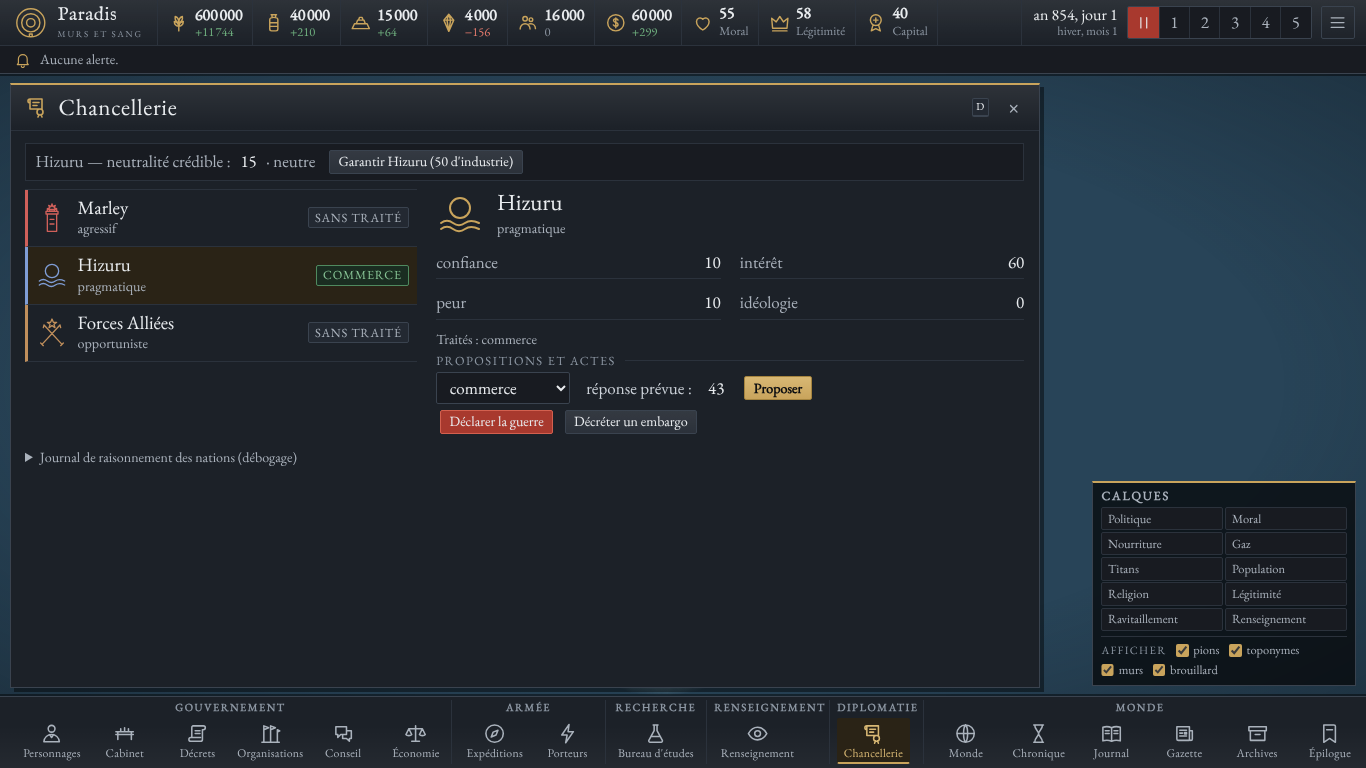
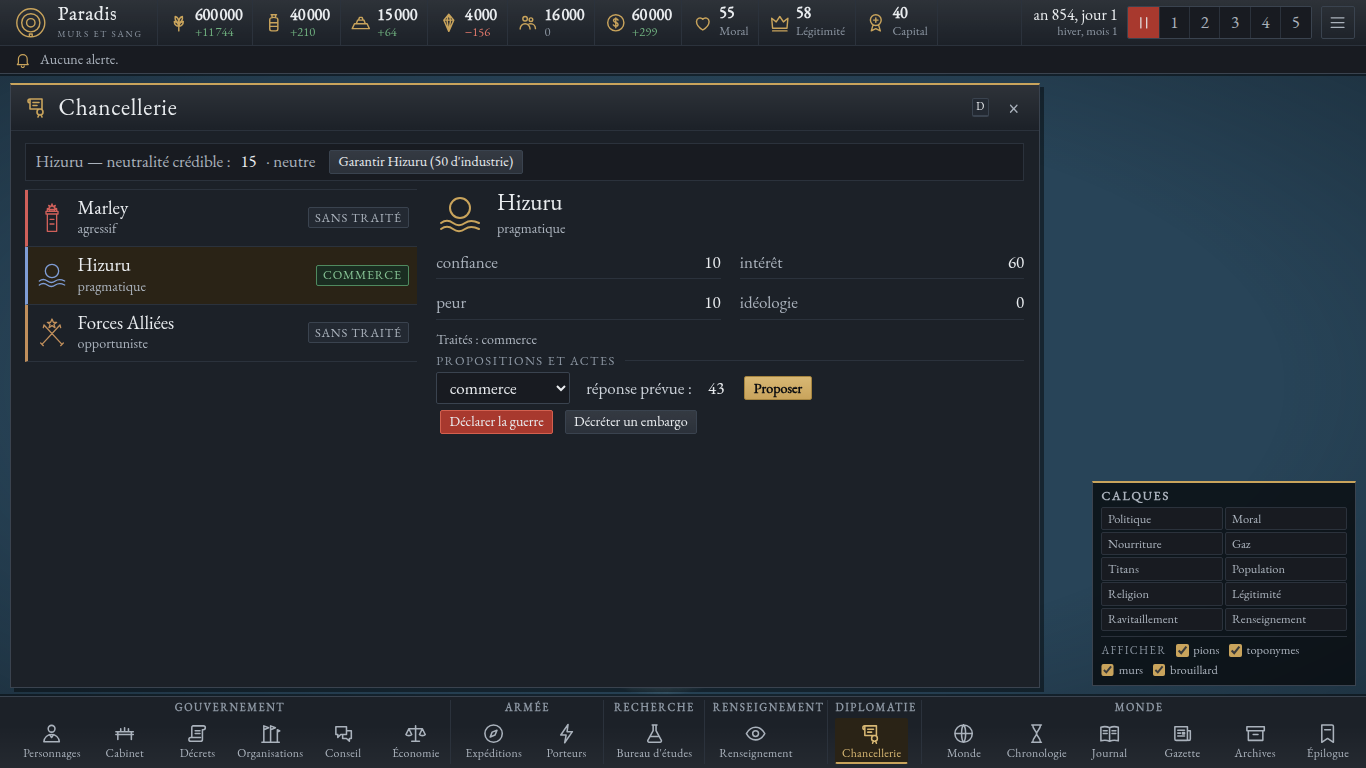
UI : capture ui-12 (Chancellerie) refaite après le correctif « (débogage) »
Paradis en 854, Hizuru choisi, 1366×768, sur la branche principale (CHR comprise) :
plus de « Journal de raisonnement des nations (débogage) » (texte de la page vérifié,
0 erreur de page). Rapport UI : entrée 12 et seconde relecture mises à jour.

Claude-Session: https://claude.ai/code/session_014pHhi7AbYjrsZA1rb7trFx

diff --git a/docs/reports/UI.md b/docs/reports/UI.md
@@ -100,9 +100,9 @@ infobulle (« valeur « −2 561 / jour », 4 sous-totaux, 10 facteurs dont 9 co
 11. `ui-11-economie-1366` — Rationnement en tête ; ressources à gauche ; détail de la nourriture (réserve, variation,
     production, consommation, pertes, totaux). Défauts : consommation « +7800 » en rouge (signe ambigu) ; « Population »
     hors de vue sans défilement visible ; zéros redondants du niveau « Normal ».
-12. `ui-12-chancellerie-1366` — Nations à blason à gauche, Hizuru choisi : axes, traité, proposition, guerre, embargo.
-    Défauts : « Journal de raisonnement des nations (débogage) » visible du joueur ; « commerce » proposé alors qu'il est
-    en vigueur ; grand vide sous la liste.
+12. `ui-12-chancellerie-1366` — refaite après le correctif D-113 (branche principale, CHR comprise) : Paradis en 854,
+    Hizuru choisi (axes, traité, proposition, guerre, embargo) ; plus de journal « (débogage) » (texte de la page vérifié).
+    Défauts : « commerce » proposé alors qu'il est en vigueur ; « réponse prévue : 43 » sans unité ; grand vide en bas.
 
 ## Ce qui reste
 1. `smoke:tactique` : erreurs Pixi `geometry` / `clear` après la fermeture de la planche des figures (dette n° 20).
@@ -134,7 +134,7 @@ EXIT 0
   `Tests 530 passed (530)`, `✓ built in 2.14s`, `EXIT 0` ; `git diff 7146a98 a13fd36 --stat -- src/sim` : vide.
 - Les 12 captures relues une à une par un sous-agent neuf (recadrages à taille réelle en 4K) : **aucun bloquant non
   couvert**. Le seul bloquant visible, « (débogage) » en ui-12, est corrigé dans `a13fd36` (`authorOnly`, `dip.ai_log`,
-  `leaks.ts`), mais la capture ui-12 n'a pas été refaite ; ui-01 et ui-05 précèdent aussi leurs correctifs.
+  `leaks.ts`), capture ui-12 refaite ensuite (sans la mention) ; ui-01 et ui-05 précèdent leurs correctifs.
 - CUI-05 confirmé (réserve : l'arbre de recherche reste une grille 2×3 de cases) ; CUI-07 : aucun texte illisible, mais des
   troncatures (dette n° 21) ; CUI-08 confirmé (12 captures non vides, chacune montre son écran) ; le défaut cité pour
   ui-04 (titre de groupe recouvert) n'est pas visible.
